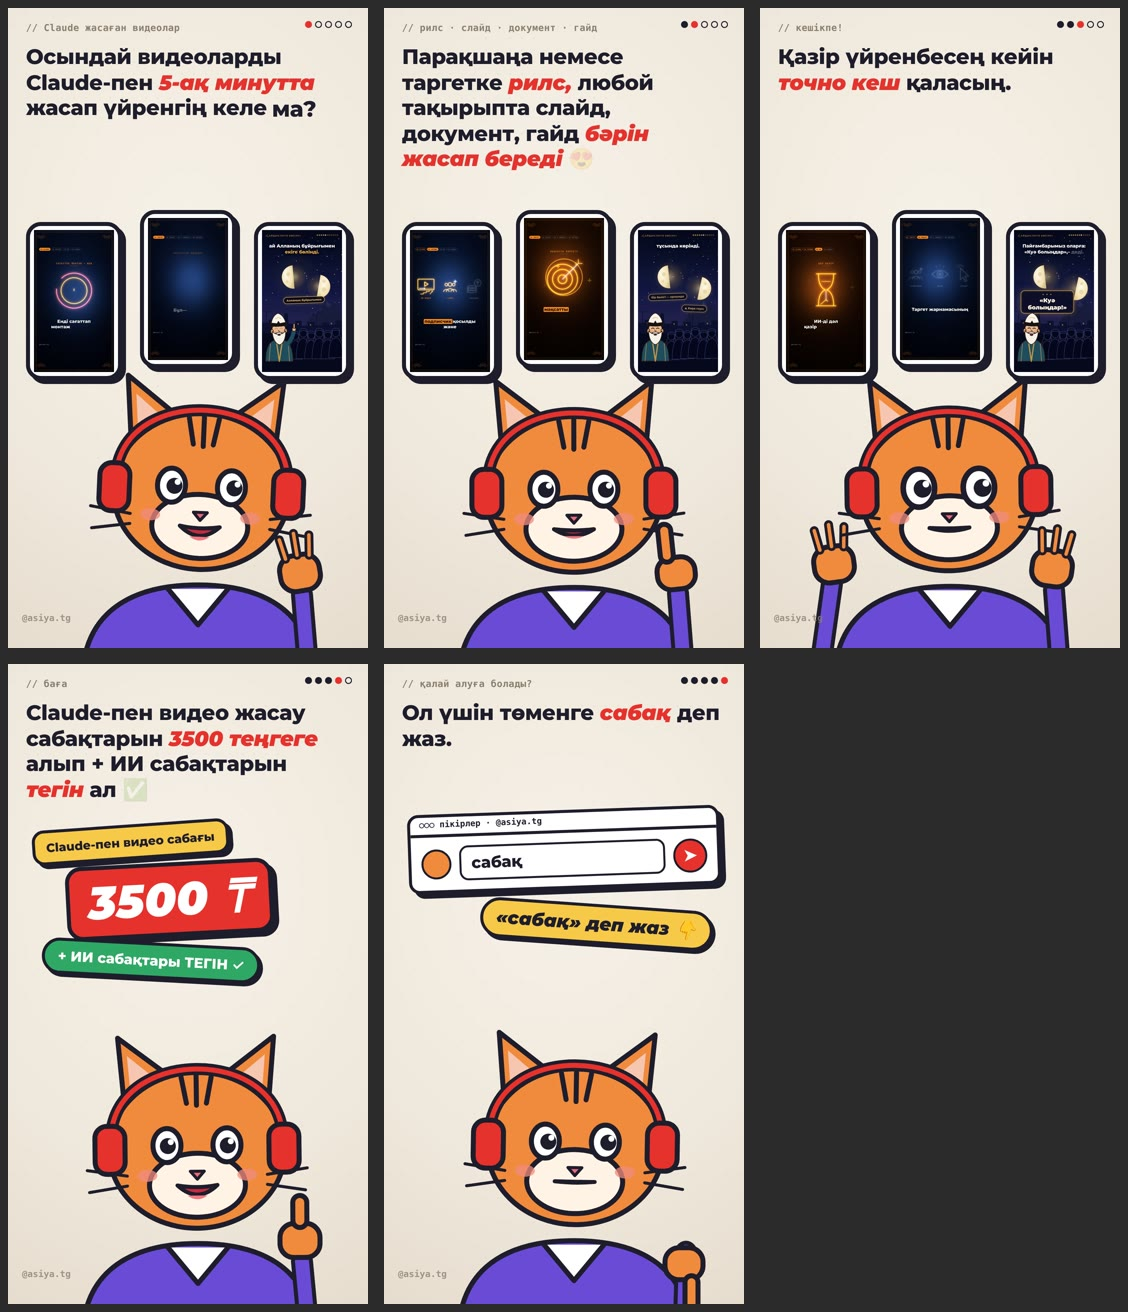
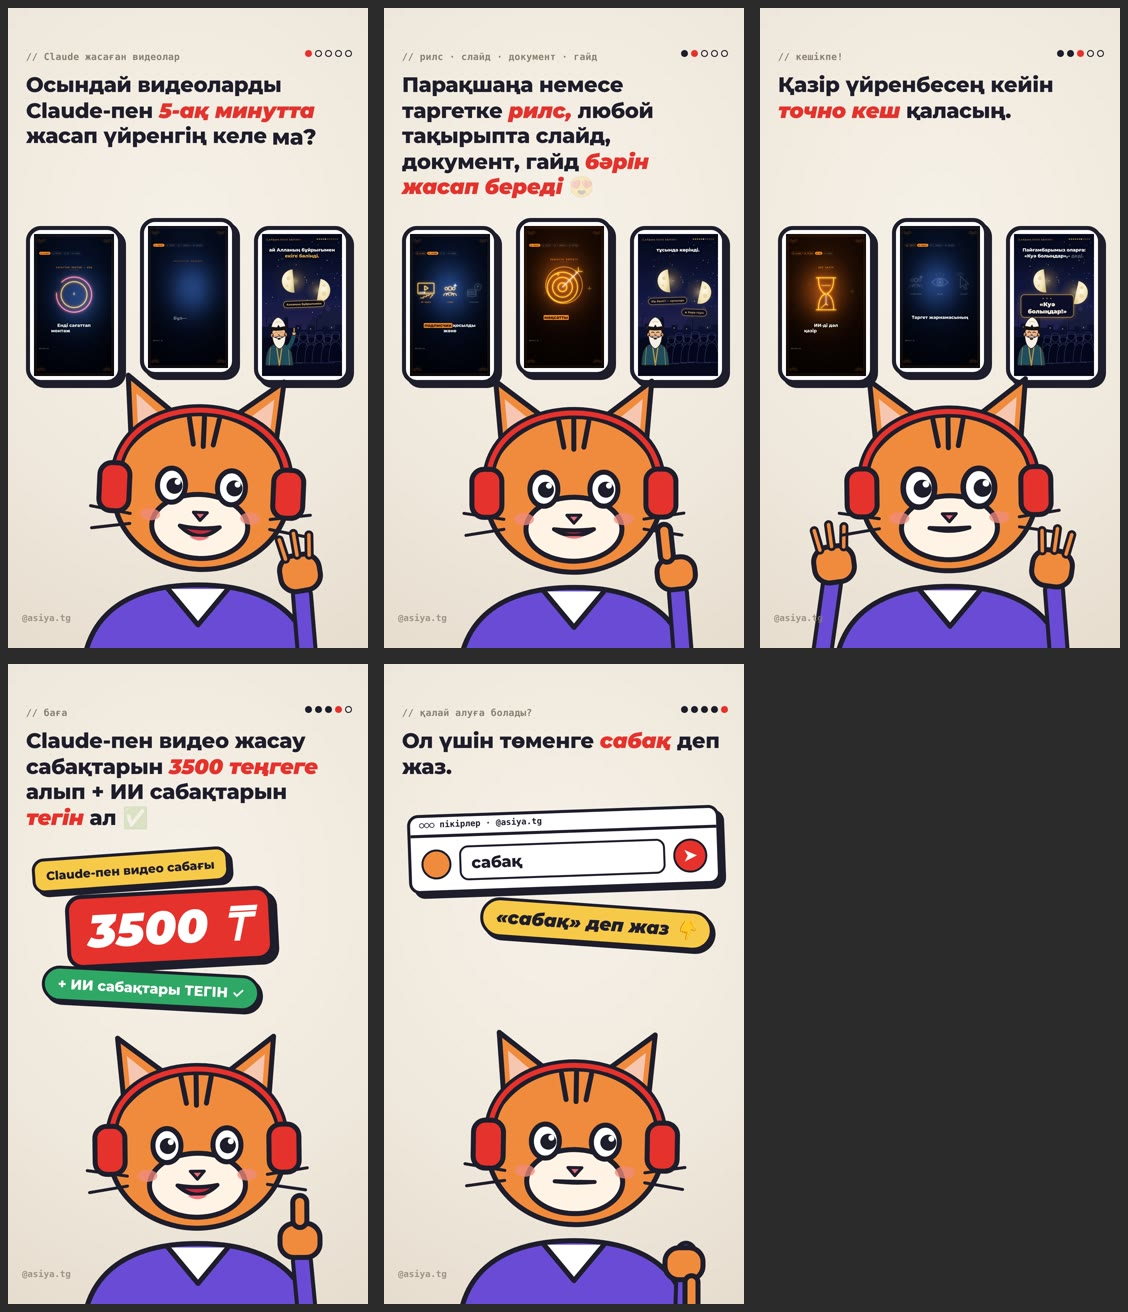
Сабақ таргет: мәтін төменірек түсірілді
Claude-Session: https://claude.ai/code/session_015ZUefvco5XbADGQ2uYzqUs

diff --git a/.claude/skills/matin-video/mult/page.html b/.claude/skills/matin-video/mult/page.html
@@ -15,11 +15,11 @@ html,body{margin:0;width:360px;height:640px;overflow:hidden;background:var(--bg)
 #stage{position:absolute;inset:0;overflow:hidden;font-family:MS,sans-serif;color:var(--ink);
  background:radial-gradient(120% 80% at 50% 35%,#F6F1E8 0%,#EFE8DC 55%,#E4DACB 100%)}
 #grain{position:absolute;inset:0;opacity:.35;background-image:radial-gradient(#d8ccb9 .7px,transparent .8px);background-size:12px 12px}
-.lab{position:absolute;left:18px;top:15px;font:600 9.5px 'DejaVu Sans Mono',monospace;color:#8a8070;letter-spacing:.2px}
-#dots{position:absolute;right:16px;top:13px;display:flex;gap:3px}
+.lab{position:absolute;left:18px;top:44px;font:600 9.5px 'DejaVu Sans Mono',monospace;color:#8a8070;letter-spacing:.2px}
+#dots{position:absolute;right:16px;top:42px;display:flex;gap:3px}
 #dots i{width:7px;height:7px;border-radius:50%;border:1.6px solid var(--ink);display:block}
 #dots i.on{background:var(--ink)} #dots i.cur{background:var(--red);border-color:var(--red)}
-.hl{position:absolute;left:18px;right:16px;top:36px;font:800 21px/1.22 MS;letter-spacing:-.2px}
+.hl{position:absolute;left:18px;right:16px;top:64px;font:800 21px/1.22 MS;letter-spacing:-.2px}
 .hl span{display:inline-block;white-space:pre;transform-origin:50% 70%}
 .hl .e,.hl b.e{font-weight:900;font-style:italic;color:var(--red)}
 .scene{position:absolute;inset:0}
@@ -42,9 +42,9 @@ html,body{margin:0;width:360px;height:640px;overflow:hidden;background:var(--bg)
 .big{font:900 italic 46px/1 MS;color:#fff;background:var(--red);border:4px solid var(--ink);border-radius:16px;box-shadow:5px 5px 0 var(--ink);padding:10px 18px;white-space:nowrap}
 </style></head><body><div id="stage"><div id="grain"></div><div id="scenes"></div>
 <div id="phones" style="position:absolute;inset:0;display:none">
- <div class="ph" id="ph0" style="left:18px;top:214px"><div class="scr"></div></div>
- <div class="ph" id="ph1" style="left:132px;top:202px"><div class="scr"></div></div>
- <div class="ph" id="ph2" style="left:246px;top:214px"><div class="scr"></div></div>
+ <div class="ph" id="ph0" style="left:18px;top:218px"><div class="scr"></div></div>
+ <div class="ph" id="ph1" style="left:132px;top:210px"><div class="scr"></div></div>
+ <div class="ph" id="ph2" style="left:246px;top:218px"><div class="scr"></div></div>
 </div>
 <div id="dots"></div>
 <svg id="cat" viewBox="0 0 360 640" width="360" height="640" stroke="#1d1d2b" stroke-width="5" stroke-linejoin="round" stroke-linecap="round">

diff --git a/.claude/skills/matin-video/scripts/mult.py b/.claude/skills/matin-video/scripts/mult.py
@@ -165,7 +165,7 @@ def render(plan, max_mb):
     print(out, os.path.getsize(out) // 1024 // 1024, "MB")
 
 
-PHONE_SCR = [(78, 666), (420, 630), (762, 666)]  # page.html .ph .scr орны (3x), 240x426
+PHONE_SCR = [(78, 678), (420, 654), (762, 678)]  # page.html .ph .scr орны (3x), 240x426
 
 
 def overlay_clips(P, data, out, br):
